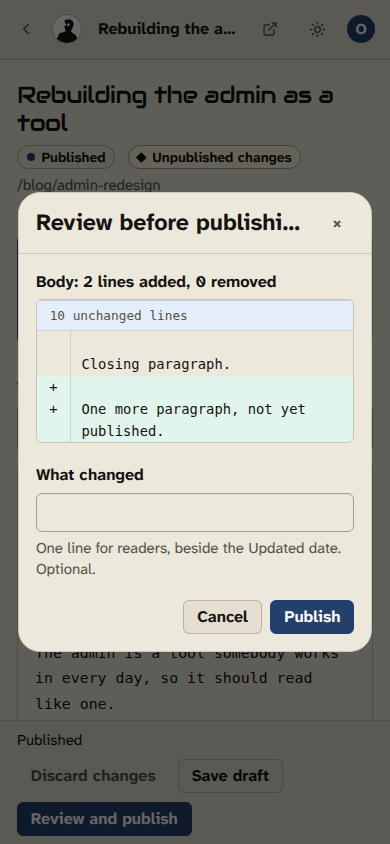
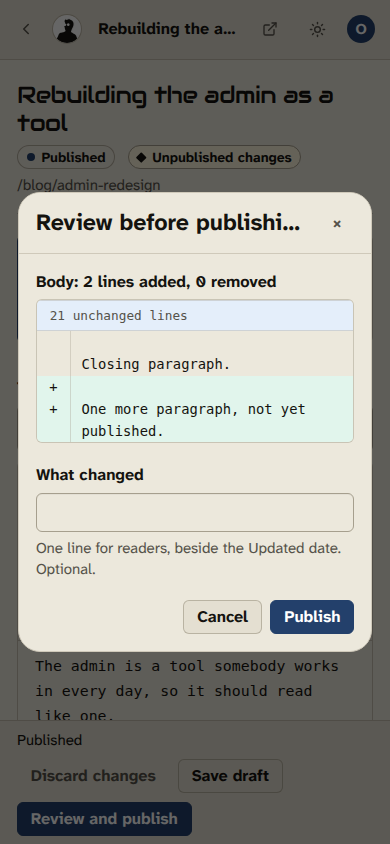
fix(admin): one fixed action bar, the reader's upright type, a square code frame (#288)
- An editor's actions sit in the shell's bottom bar at every width, fixed
  beside the nav, with the page padded by its measured height. The sticky
  desktop duplicate floated over the body and the preview.
- A bare `italic` among PROSE's h5 utilities set the whole reading column in
  italic, on /blog as well as in the preview. Only h5 is italic now.
- The preview scopes the reader's --r-lg / --r-xl to 6px, so the code frame
  is no longer a 32px pill in a half-width pane.
- The shots use a body longer than the viewport, and the bar screens are
  shot one viewport at a time (a full-page capture paints a fixed bar
  mid-page), plus an editor-scrolled screen.

Claude-Session: https://claude.ai/code/session_013rV122rB1efRPxM15SDQLv

diff --git a/web/src/components/admin/AdminShell.tsx b/web/src/components/admin/AdminShell.tsx
@@ -103,12 +103,18 @@ export type AdminShellProps = {
    */
   bottomBar?: ReactNode;
   backTo?: string;
+  /**
+   * Keep the bottom bar at every width, not only on a phone (#288). An
+   * editor's Save then has one home: fixed to the bottom of the screen,
+   * beside the nav, with the page padded so nothing scrolls out from under it.
+   */
+  barEverywhere?: boolean;
   /** Right-hand side of the mobile top bar. */
   actions?: ReactNode;
   children: ReactNode;
 };
 
-export default function AdminShell({ title, section, counts, bottomBar, backTo, actions, children }: AdminShellProps) {
+export default function AdminShell({ title, section, counts, bottomBar, backTo, barEverywhere, actions, children }: AdminShellProps) {
   const { pathname } = useLocation();
   const w = useAdminWords();
   const [who, setWho] = useState("");
@@ -307,9 +313,9 @@ export default function AdminShell({ title, section, counts, bottomBar, backTo, 
         </main>
       </div>
 
-      {/* The one screen-bottom region, an editor's Save, on a phone. */}
+      {/* The one screen-bottom region: an editor's Save. */}
       {bottomBar && (
-        <div ref={bar} className="a-bottom lg:hidden">
+        <div ref={bar} className={barEverywhere ? "a-bottom a-bottom-all" : "a-bottom lg:hidden"}>
           {bottomBar}
         </div>
       )}

diff --git a/web/src/index.css b/web/src/index.css
@@ -2832,14 +2832,12 @@
     padding-bottom: .5rem; border-bottom: 1px solid rgb(var(--rule-firm) / .5);
     font-size: 1.25rem; font-weight: 700; line-height: 1.3; color: rgb(var(--ink));
   }
-  /* An editor's actions on a desktop: sticky at the foot of the form, the
-     same bar a phone pins to the bottom of the screen. */
-  .a-action-bar {
-    position: sticky; bottom: 0; z-index: 5;
-    align-items: center; gap: .75rem;
-    margin-top: 2rem; padding: .75rem 1rem;
-    border: 1px solid rgb(var(--rule-firm) / .5); border-radius: 6px;
-    background: rgb(var(--paper-2));
+  /* An editor's bar at every width (#288): fixed to the screen's bottom,
+     beside the nav on a desktop rather than under it. `.a-main` is padded by
+     its measured height, so it never covers the last of the content. */
+  @media (min-width: 1024px) {
+    .a-bottom-all { inset-inline-start: 15rem; }
+    .a-bottom-all > * { max-width: 76rem; margin-inline: auto; padding-inline: 2rem; }
   }
 
   /* ---- boxes, rows and tables: GitHub's Box */

diff --git a/web/src/components/notes/reader/NoteMarkdown.tsx b/web/src/components/notes/reader/NoteMarkdown.tsx
@@ -320,7 +320,7 @@ export const PROSE = [
   "prose-h2:mt-14 prose-h2:mb-4 prose-h2:text-[1.6rem] prose-h2:leading-[1.1] prose-h2:text-bone sm:prose-h2:text-[2rem]",
   "prose-h3:mt-10 prose-h3:mb-3 prose-h3:text-[1.3rem] prose-h3:leading-[1.2] prose-h3:text-bone sm:prose-h3:text-[1.5rem]",
   "prose-h4:mt-8 prose-h4:mb-2 prose-h4:text-[1.1875rem] prose-h4:leading-[1.3] prose-h4:text-bone sm:prose-h4:text-[1.3125rem]",
-  "prose-h5:mt-8 prose-h5:mb-2 prose-h5:font-sans italic prose-h5:italic prose-h5:font-normal",
+  "prose-h5:mt-8 prose-h5:mb-2 prose-h5:font-sans prose-h5:italic prose-h5:font-normal",
   "prose-h5:text-[1.1875rem] prose-h5:leading-[1.35] prose-h5:tracking-[0] prose-h5:text-bone sm:prose-h5:text-[1.375rem]",
   "prose-h6:mt-8 prose-h6:mb-2 prose-h6:text-[1.0625rem] prose-h6:leading-[1.4] prose-h6:uppercase prose-h6:tracking-[0.1em] prose-h6:text-clay sm:prose-h6:text-[1.1875rem]",
   "prose-li:marker:text-clay",

diff --git a/web/src/components/admin/content/EditorFrame.tsx b/web/src/components/admin/content/EditorFrame.tsx
@@ -53,6 +53,7 @@ export default function EditorFrame<T>({ title, section, intro, preview, editor,
     <AdminShell
       title={title}
       section={section}
+      barEverywhere
       bottomBar={
         <div className="flex items-center justify-between gap-2 px-3 py-2">
           <StatusPill state={state} />
@@ -113,11 +114,6 @@ export default function EditorFrame<T>({ title, section, intro, preview, editor,
         <IssuesContext.Provider value={issueMap}>
           <form noValidate onSubmit={(e) => e.preventDefault()}>
             {children(value)}
-            {/* The same bar the phone pins to the screen's bottom (#288). */}
-            <div className="a-action-bar hidden lg:flex">
-              <StatusPill state={state} />
-              <span className="ms-auto flex gap-2">{actions}</span>
-            </div>
           </form>
         </IssuesContext.Provider>
       )}

diff --git a/web/src/components/admin/noteEditor/NoteEditor.module.css b/web/src/components/admin/noteEditor/NoteEditor.module.css
@@ -144,6 +144,9 @@
   overflow-wrap: anywhere;
 }
 .preview > :first-child { margin-top: 0; }
+/* The reader's own type and code frame, at the admin's radius: the
+   reader's 32px corners on a half-width pane drew the code as a pill. */
+.preview { --r-lg: 6px; --r-xl: 6px; }
 
 .notice {
   margin-top: 1rem;
@@ -281,16 +284,3 @@
   box-shadow: inset 0 2px 0 rgb(var(--sodium));
 }
 .toggleGroup { display: flex; gap: .125rem; }
-/* The action bar (#288): sticky at the foot of the form on a desktop, the
-   same bar the phone pins to the screen's bottom. */
-.actionBar {
-  position: sticky;
-  bottom: 0;
-  z-index: 5;
-  margin-top: 2rem;
-  padding: .75rem 1rem;
-  border: 1px solid rgb(var(--rule-firm) / .5);
-  border-radius: 6px;
-  background: rgb(var(--paper-2));
-  box-shadow: 0 -6px 16px -12px rgb(var(--shade, 0 0 0) / .5);
-}

diff --git a/web/src/pages/AdminEditor.tsx b/web/src/pages/AdminEditor.tsx
@@ -455,7 +455,7 @@ export default function AdminEditor() {
   const setBody = (v: string) => edit(bodyLang === "he" ? "heBody" : "body", v);
 
   return (
-    <AdminShell title={heading} section="posts" backTo="/admin/posts" bottomBar={<div className="px-4 py-2">{actions}</div>}>
+    <AdminShell title={heading} section="posts" backTo="/admin/posts" barEverywhere bottomBar={<div className="px-4 py-2">{actions}</div>}>
       {loading ? (
         <p className="mono mt-4 text-xs text-clay">{w.loading}</p>
       ) : (
@@ -717,7 +717,6 @@ export default function AdminEditor() {
             </div>
           </details>
 
-          <div className={`${styles.actionBar} hidden lg:block`}>{actions}</div>
         </form>
       )}
 

diff --git a/web/src/components/admin/noteEditor/__tests__/noteEditor.test.tsx b/web/src/components/admin/noteEditor/__tests__/noteEditor.test.tsx
@@ -112,7 +112,13 @@ vi.mock("@/services/admin", async (orig) => ({
   admin: api,
 }));
 vi.mock("@/components/admin/AdminShell", () => ({
-  default: ({ children }: { children: React.ReactNode }) => <main>{children}</main>,
+  /* The editor's actions live only in the shell's bottom bar (#288). */
+  default: ({ children, bottomBar }: { children: React.ReactNode; bottomBar?: React.ReactNode }) => (
+    <>
+      <main>{children}</main>
+      {bottomBar}
+    </>
+  ),
 }));
 
 async function open() {
